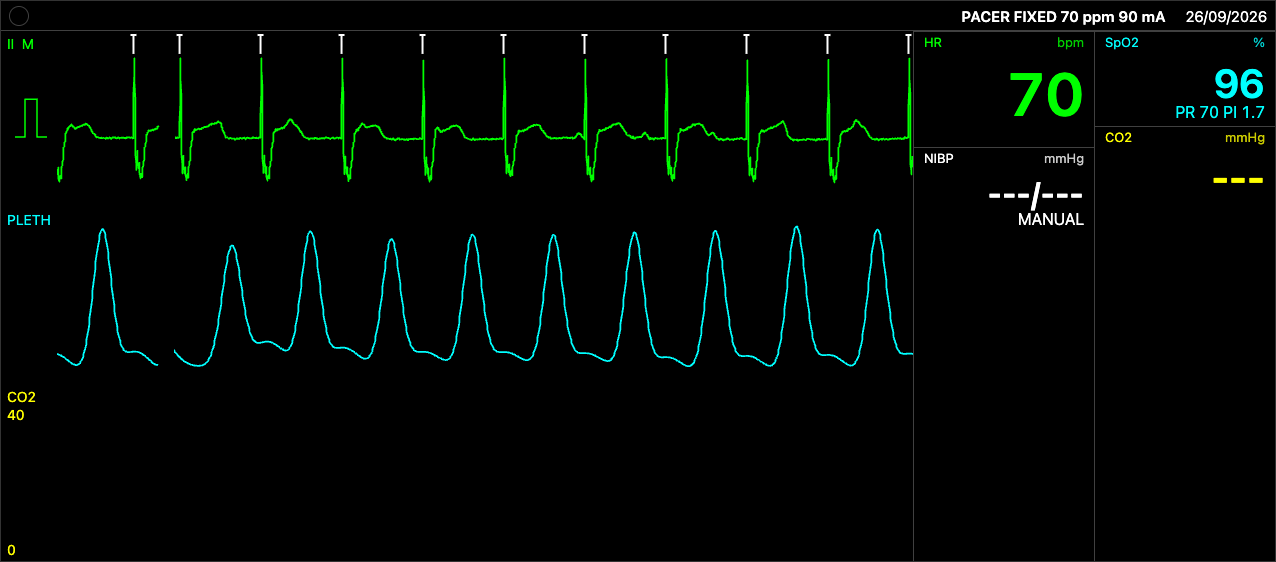
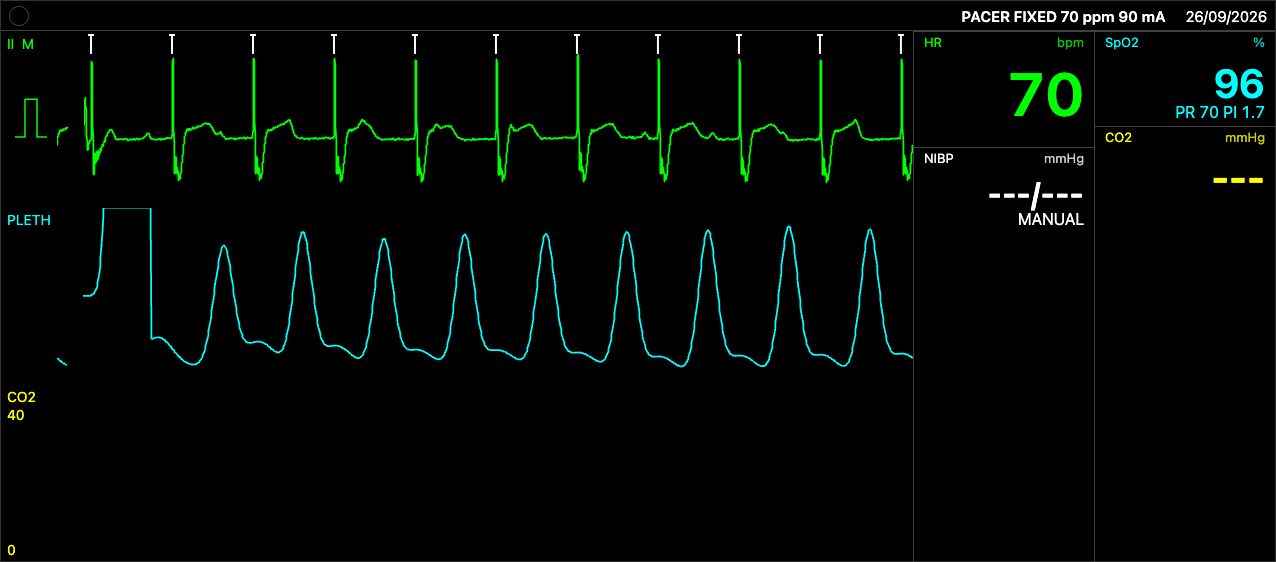
docs(gates): FU-1 gate note (item → change → test → screenshot) and refreshed TCP screenshot

diff --git a/docs/gates/fu-1.md b/docs/gates/fu-1.md
@@ -1,0 +1,44 @@
+# Gate FU-1 — follow-ups bundle (4b, 5.1, 6a, 6b)
+
+Branch `fu-1-followups` (from main 9e39b29). One commit per item, pushed after each. Origins: G4b, G5.1 / G5.1-obs,
+G3.1-obs, R30, R39 in `research/00-orchestrator-rulings.md`; requests R-51-1 / R-51-3 in `docs/gates/stage-5.1.md`.
+
+| # | Item | Change | Test | Evidence |
+|---|---|---|---|---|
+| 1 | Playwright CI resilience (G5.1) | `playwright.config.ts`: `retries: 2` when `CI` is set, `workers: 1` on the WebKit project; 4b "live monitor per skin" (41.5 s on CI WebKit) and "device evidence" (1.6 min) skip WebKit with a comment. The `PW_SYSTEM_CHROME` path is unchanged. | `CI=1 playwright test --list` (42 tests); full local e2e below | — |
+| 2 | 6b ACLS flake (G3.1-obs) | The test records the engine's `deviceStatus` defib state and polls it to `ready` before Shock (no fixed 8 s wait). Audit: fixed-sleep-then-assert patterns converted to polls in 4b audio log (`chargeReady` marker before shock, `shock` tone before reading the log), 4b 12-lead (sim time ≥ 10 s), 4b device evidence (pace spikes, sync markers), 6a trio (20 visible commands), 6a latency (every fired command visible), 6a worker (snapshot tick). Screenshot-only sweeps keep their waits. | stage6b, stage4b-device, stage6a, stage6a-latency, stage6a-worker e2e pass | — |
+| 3 | R-51-1 TCP marks | `renderer/src/overlays.ts`: `paceSpike` markers with `data.tcp` draw a capped mark from the lane top, 2.5× the skin's pace mark and ≥ 5 mm, never reaching the baseline where the sampled pad spike is; vertical-line skins draw it 2.5× through the baseline. Drawn on every ECG lane of a skin with a device pacer (existing `shows()`). | `renderer/test/overlays-tcp.test.ts` (FakeCtx, 4 tests) | `fu-1/tcp-marks-zoll-like.png` |
+| 4 | R-51-3 QRS detector vs pacer spikes | `l3/qrs.ts`: `qrsPacePulse` + `qrsPaceGate` — the engine announces each TCP pulse 8 ms ahead (from the `paceSpike` records); the unfiltered detection lead is held for 60 ms (before the monitor filter, whose mains notch rang for > 100 ms after the spike) and the polarisation tail is re-based with a fading offset (τ 100 ms). `engine.ts`: one helper + two call-site lines. | `engine-core/test/l3/qrs-pacing.test.ts`: tcpCapture (avb3Wide, 70 ppm, 90 mA) HR 70; tcpNoCapture (40 mA) HR 32 = the escape rhythm; asystole + 50 mA HR **0** (was 70); pacedVVI HR 70 unchanged. Extra sweep (not committed): sinus + 100 ppm no-capture → 74–75; asystole 140 mA below a 150 mA threshold → 0; 120 ppm capture in asystole → 60 (alternate pulses fall in the paced beat's refractory period, as the engine marks them). | — |
+| 5 | Panel tab-registration API (4b, 6b requests) | `controller/src/panel/panel.ts`: `PanelTab { id, title, render(el, ctx), before? }`, `panel.registerTab()` (returns a remover), `selectTab`, `tabs`, `tabs` option at mount; Controls, Log, Bookmarks and Scenario are registered through it (same `data-tab`/`data-pane` DOM). The 6b ACLS demo registers a **Device** tab (defib/pacer status and buttons). | `controller/test/panel/panel-tabs.dom.test.ts` (happy-dom, 5 tests); existing panel tests unchanged | `fu-1/panel-device-tab.png` |
+| 6 | 6a UX: controls follow the host | `ControllerSession.rhythm` from applied `setRhythm` (any controller, the scenario driver) and the engine's `rhythmSegment` events. Panel and remote rhythm select and target fields show the host's value when it changes (state `values`, rhythm) — never while the user is in that control; a typed but unsent value is kept until the host changes. `RHYTHM_LABEL` covers all 36 ids. | `controller/test/panel/controls-follow.dom.test.ts` (6 tests) | — |
+| 7 | ge-like / mindray-like layout | research/05 §2 documents both vendors' **alarm bar colours** (Mindray already encoded in 4b; GE red/yellow/cyan now explicit, tagged documented) but **neither vendor's lane order nor numeric tile grid**. The `LAYOUT UNVERIFIED` badge therefore stays on both; the badge's provenance note names the missing data. | `skins/test/fu1-layout.test.ts` | — |
+| 8 | E-4a-2 HR time-window averaging | `l3/hr.ts`: optional `averaging { kind: 'beats' \| 'seconds', n }` — beats: plain mean of the last n RR; seconds: mean of the RR ending in the last n s (at least 2). Skin schema/types/CONTRACT gain optional `hr.averaging`; the engine reads it per active skin. No shipped skin sets it → defaults unchanged. | `engine-core/test/l3/hr-averaging.test.ts` (5 tests; the default path's numbers pinned) | — |
+
+## Data still missing (item 7)
+- **GE CARESCAPE-style:** factory lane order (which waveforms, top to bottom), numeric tile grid (position and size of
+  HR / SpO2 / NIBP / IBP / CO2 tiles), header layout. research/05 §2.7 only has "colour-coded alarm light area;
+  parameter windows open menus on touch" [S3].
+- **Mindray N-series-style:** the same three; research/05 §2.7 only has the 120 s freeze buffer [S4 §3.12].
+- Source needed: a factory-default screen photo or the operator manual's "screen layout" / "display" chapter for each.
+
+## Notes and deviations
+- engine.ts (7a/7b concurrency): additive only — `tcpPulseAnnouncements()` + the pace-gate call in `advance()`, the
+  averaging argument on the HR measurement line and a cached `hrAveraging()` method. No edits to l2/circ, l2/hemo,
+  l2/lung, l2/gas, l2/co2, packages/ventilator.
+- Item 6 cannot see rhythm changes the engine makes without an event (e.g. a shock outcome): the 1 Hz `state` event
+  (l2/hemo, 7a's area) carries no rhythm. Adding `rhythm` to `state` would close that; left for the L1/hemo owner.
+- Item 8: saadat-like declares `hr.method: 'moving-average-seconds'` with window 8 s; mapping it to
+  `averaging: { kind: 'seconds', n: 8 }` would change a default, so it is left for the calibration pass.
+- Under the shared machine's load (load average 35–44 on 8 cores), a few pre-existing 5 s-budget renderer tests timed
+  out once and passed on rerun; not changed here.
+
+## Gate run
+Local, macOS, Node v26, 2026-09-26 ~21:20 (shared machine, load average 35+):
+- `pnpm typecheck` — 0 errors. `pnpm build` — OK. `pnpm check-notices` — OK (3 governed files).
+- `pnpm -r test` — **1,091 passed, 0 failed**: engine-core 501 (110 files), controller 196, skins 168, ventilator 87,
+  renderer 65, audio 58, validation 16. New in FU-1: renderer 4, engine-core 9 (qrs-pacing 4, hr-averaging 5),
+  controller 11 (panel-tabs 5, controls-follow 6), skins 2.
+- `PW_SYSTEM_CHROME=1 pnpm test:e2e` — **23 passed** (2.4 min), including the two new FU-1 evidence tests and the
+  converted 6b/4b/6a tests. CI (bundled Chromium + WebKit) lists 46 tests, with `retries: 2`, one WebKit worker, and the
+  two heavy 4b evidence tests skipped on WebKit.
+- Screenshots (≤ 60 KB each): `docs/gates/fu-1/tcp-marks-zoll-like.png`, `docs/gates/fu-1/panel-device-tab.png`.
